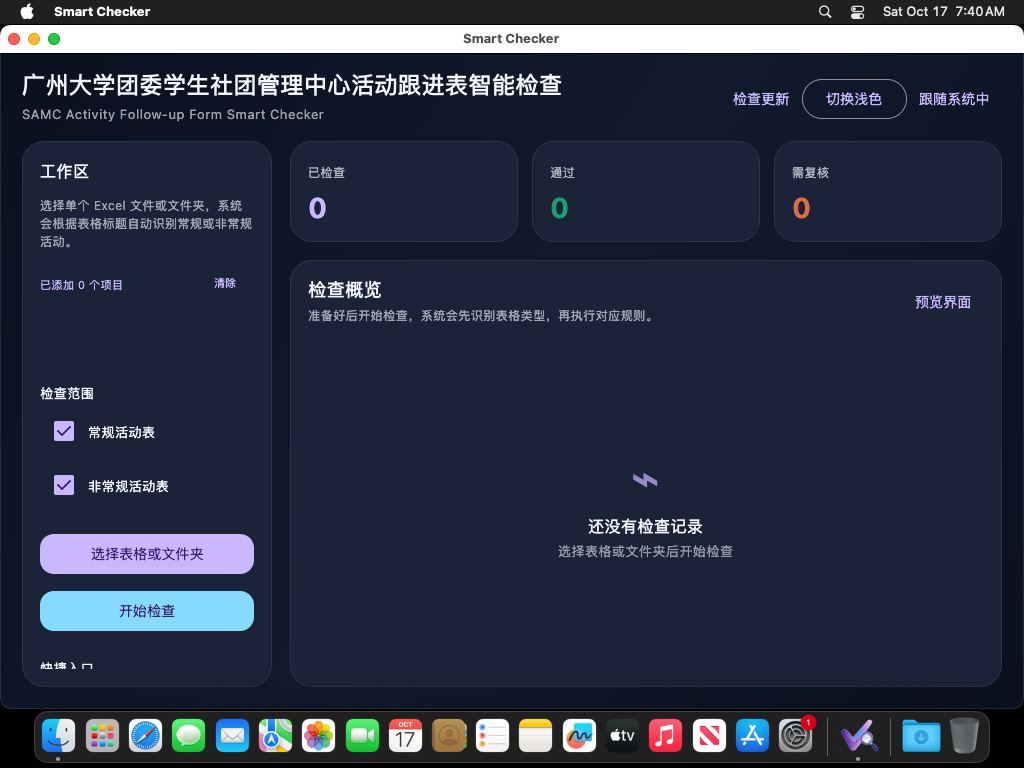
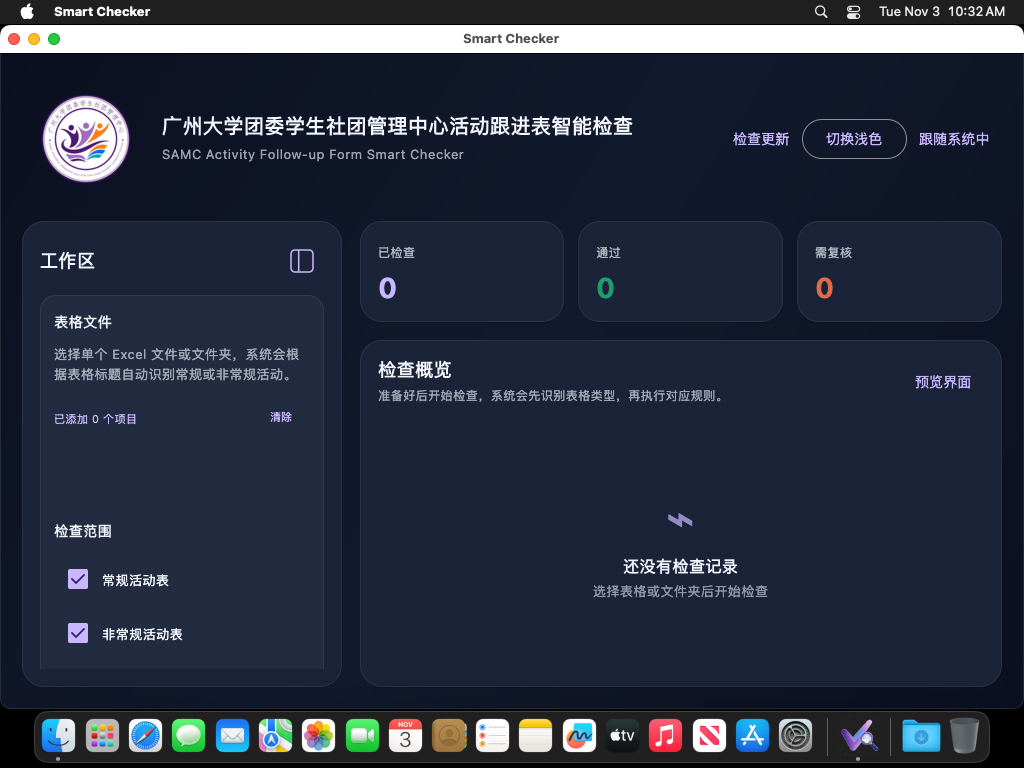
Update all six platform theme screenshots to Smart Checker 6.26.3

diff --git a/docs/index.html b/docs/index.html
@@ -53,15 +53,31 @@
   </section>
   <section class="previews" aria-labelledby="preview-title">
     <h2 id="preview-title">界面预览</h2>
-    <p>macOS 版实际运行截图 · 浅色与深色主题。点击图片查看原图。</p>
+    <p>Smart Checker 6.26.3 三端实际运行截图 · 浅色与深色主题。点击图片查看原图。</p>
     <div class="preview-grid">
       <figure class="preview">
-        <a href="screenshots/macos-light.png" target="_blank" rel="noopener" aria-label="查看浅色主题截图原图（新窗口）"><img src="screenshots/macos-light.png" alt="Smart Checker macOS 浅色界面，展示工作区、检查范围和检查概览" width="1024" height="768" loading="lazy" decoding="async"></a>
-        <figcaption>浅色模式<span>macOS · Smart Checker 6.26.2（旧版截图）</span></figcaption>
+        <a href="screenshots/windows-light.png?v=6.26.3" target="_blank" rel="noopener"><img src="screenshots/windows-light.png?v=6.26.3" alt="Windows 6.26.3 浅色界面实际截图" loading="lazy" decoding="async"></a>
+        <figcaption>Windows · 浅色模式<span>Smart Checker 6.26.3</span></figcaption>
       </figure>
       <figure class="preview">
-        <a href="screenshots/macos-dark.png" target="_blank" rel="noopener" aria-label="查看深色主题截图原图（新窗口）"><img src="screenshots/macos-dark.png" alt="Smart Checker macOS 深色界面，展示工作区、检查范围和检查概览" width="1024" height="768" loading="lazy" decoding="async"></a>
-        <figcaption>深色模式<span>macOS · Smart Checker 6.26.2（旧版截图）</span></figcaption>
+        <a href="screenshots/windows-dark.png?v=6.26.3" target="_blank" rel="noopener"><img src="screenshots/windows-dark.png?v=6.26.3" alt="Windows 6.26.3 深色界面实际截图" loading="lazy" decoding="async"></a>
+        <figcaption>Windows · 深色模式<span>Smart Checker 6.26.3</span></figcaption>
+      </figure>
+      <figure class="preview">
+        <a href="screenshots/android-light.png?v=6.26.3" target="_blank" rel="noopener"><img src="screenshots/android-light.png?v=6.26.3" alt="Android 6.26.3 浅色界面实际截图" loading="lazy" decoding="async"></a>
+        <figcaption>Android · 浅色模式<span>Smart Checker 6.26.3 · 模拟器运行</span></figcaption>
+      </figure>
+      <figure class="preview">
+        <a href="screenshots/android-dark.png?v=6.26.3" target="_blank" rel="noopener"><img src="screenshots/android-dark.png?v=6.26.3" alt="Android 6.26.3 深色界面实际截图" loading="lazy" decoding="async"></a>
+        <figcaption>Android · 深色模式<span>Smart Checker 6.26.3 · 模拟器运行</span></figcaption>
+      </figure>
+      <figure class="preview">
+        <a href="screenshots/macos-light.png?v=6.26.3" target="_blank" rel="noopener" aria-label="查看浅色主题截图原图（新窗口）"><img src="screenshots/macos-light.png?v=6.26.3" alt="Smart Checker macOS 浅色界面，展示工作区、检查范围和检查概览" loading="lazy" decoding="async"></a>
+        <figcaption>macOS · 浅色模式<span>Smart Checker 6.26.3</span></figcaption>
+      </figure>
+      <figure class="preview">
+        <a href="screenshots/macos-dark.png?v=6.26.3" target="_blank" rel="noopener" aria-label="查看深色主题截图原图（新窗口）"><img src="screenshots/macos-dark.png?v=6.26.3" alt="Smart Checker macOS 深色界面，展示工作区、检查范围和检查概览" loading="lazy" decoding="async"></a>
+        <figcaption>macOS · 深色模式<span>Smart Checker 6.26.3</span></figcaption>
       </figure>
     </div>
   </section>
